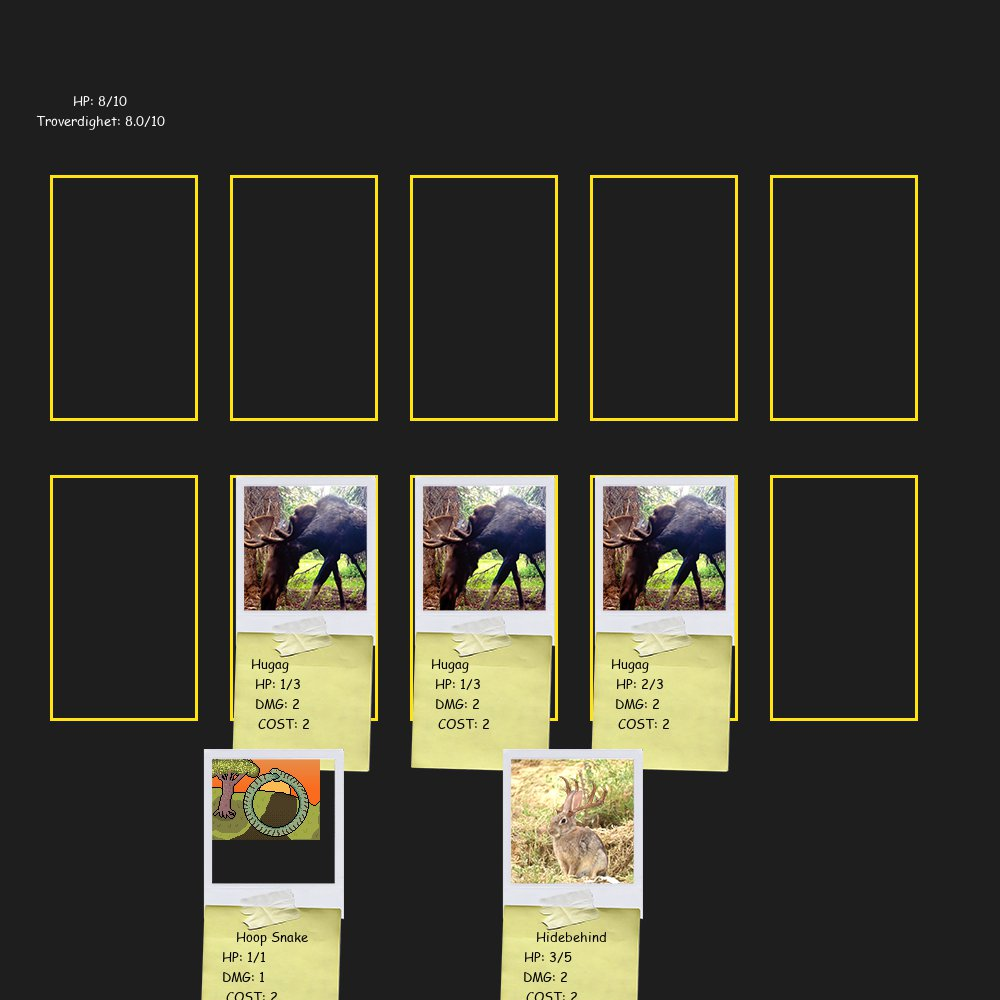
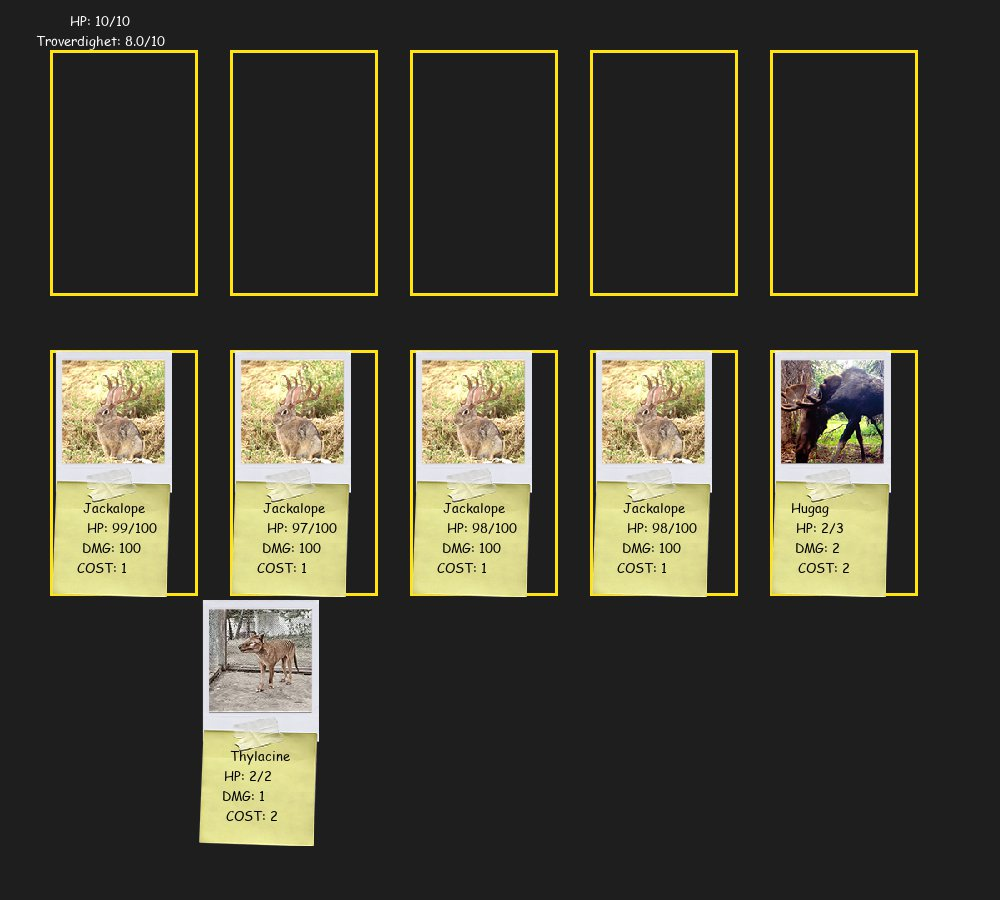
oppdaterte flere bilder, la til skalering av kort, og startet på implementeringen av shops og steder der du kan få nye kort eller modifisere gamle kort

diff --git a/main.py b/main.py
@@ -6,9 +6,10 @@ import copy
 pygame.init()
 #Basic Pygame
 pygame.display.set_caption("Cryptoscam")
-WIDTH, HEIGHT = 1000, 800
+WIDTH, HEIGHT = 1000, 900
 screen = pygame.display.set_mode((WIDTH, HEIGHT), pygame.SCALED | pygame.RESIZABLE)
 clock = pygame.time.Clock()
+fakescreen = screen.copy()
 
 BG_COLOR = (30, 30, 30)
 BLACK = (0,0,0)
@@ -25,6 +26,7 @@ currentstage = None
 loops = 0
 attackphaseactive = False
 HANDHEIGHT = 300
+standardcardscale = 1.2
 
 gamephase = 0
 changingphase = False
@@ -46,6 +48,7 @@ hugag = pygame.image.load("Spillet\Media\Sprites\polaroids\hugag.png")
 kanin = pygame.image.load("Spillet\Media\Sprites\polaroids\Kanin.png")
 ulv = pygame.image.load(r"Spillet\Media\Sprites\polaroids\Ulv.png")
 hoopsnake = pygame.image.load(r"Spillet\Media\Sprites\polaroids\hoopsnake.png")
+thylacine = pygame.image.load(r"Spillet\Media\Sprites\polaroids\thylacine.png")
 
 
 #X Sprites
@@ -128,6 +131,12 @@ class mapmark:
                     pygame.draw.line(surface, (128, 8 ,8), self.visualposition, connection.visualposition, 10)
 
         surface.blit(self.sprite, (self.visualposition.x - self.sprite.get_width() / 2, self.visualposition.y - self.sprite.get_height() / 2))
+    
+    def load(self):
+        if isinstance(self.stage, stage):
+            changephase(0)
+            currentstage = self.stage
+            spawnwave(currentstage)
         
 
 mapmarkers = []
@@ -159,6 +168,7 @@ class card:
         self.detached = False
         self.animating = False
         self.orderinlane = None
+        self.cardscale = standardcardscale
 
     def draw(self, surface):
         if self.hover == True:
@@ -167,9 +177,9 @@ class card:
             self.visualy = pygame.math.lerp(self.visualy, self.y, game_speed/12 * self.lerpspeed)
         self.visualx = pygame.math.lerp(self.visualx, self.x, game_speed/12 * self.lerpspeed)
         if self.played:
-            surface.blit(self.image, (self.visualx+12, self.visualy+10))
+            surface.blit(pygame.transform.scale(self.image, (125 / self.cardscale, 125 / self.cardscale)), (self.visualx+(12 / self.cardscale), self.visualy+(10 / self.cardscale)))
             if self.rarity == 0:
-                surface.blit(basiccard, (self.visualx, self.visualy))
+                surface.blit(pygame.transform.scale(basiccard, (144 / self.cardscale, 296 / self.cardscale) ), (self.visualx, self.visualy))
             
             self.addtext(surface, 4)
 
@@ -181,22 +191,22 @@ class card:
             if line == 0:
                 text_surface = font.render(str(self.name), True, BLACK)
                 text_rect = text_surface.get_rect()
-                text_rect.center = (self.visualx + text_rect.w, self.visualy+186+(line*20))
+                text_rect.center = (self.visualx + text_rect.w, self.visualy+(186 / self.cardscale)+(line*20))
                 surface.blit(text_surface, text_rect)
             if line == 1:
                 text_surface = font.render("HP: " + str(int(self.hp)) + "/" + str(int(self.maxhp)), True, BLACK)
                 text_rect = text_surface.get_rect()
-                text_rect.center = (self.visualx + text_rect.w, self.visualy+186+(line*20))
+                text_rect.center = (self.visualx + text_rect.w, self.visualy+(186 / self.cardscale)+(line*20))
                 surface.blit(text_surface, text_rect)
             if line == 2:
                 text_surface = font.render("DMG: " + str(int(self.dmg)), True, BLACK)
                 text_rect = text_surface.get_rect()
-                text_rect.center = (self.visualx + text_rect.w, self.visualy+186+(line*20))
+                text_rect.center = (self.visualx + text_rect.w, self.visualy+(186 / self.cardscale)+(line*20))
                 surface.blit(text_surface, text_rect)
             if line == 3:
                 text_surface = font.render("COST: " + str(int(self.cost)), True, BLACK)
                 text_rect = text_surface.get_rect()
-                text_rect.center = (self.visualx + text_rect.w, self.visualy+186+(line*20))
+                text_rect.center = (self.visualx + text_rect.w, self.visualy+(186 / self.cardscale)+(line*20))
                 surface.blit(text_surface, text_rect)
     
     def finishattackanimation(self):
@@ -264,9 +274,9 @@ class card:
                 damageplayer(self.dmg)
 
 playercarddictionary = [
-    card([0, True, "Player"], [], pygame.math.Vector3(2,1,1), jackalope, "Jackalope"),
+    card([0, True, "Player"], [], pygame.math.Vector3(100,100,1), jackalope, "Jackalope"),
     card([0, True, "Player"], [], pygame.math.Vector3(3,2,2), hugag, "Hugag"),
-    card([0, True, "Player"], ["Extinct+2"], pygame.math.Vector3(2,1,2), jackalope, "Thylacine"),
+    card([0, True, "Player"], ["Extinct+2"], pygame.math.Vector3(2,1,2), thylacine, "Thylacine"),
     card([0, True, "Player"], ["Rolling"], pygame.math.Vector3(1,1,2), hoopsnake, "Hoop Snake"),
     card([0, True, "Player"], ["Hide"], pygame.math.Vector3(5,2,2), jackalope, "Hidebehind"),
     card([0, True, "Player"], ["Mover Over"], pygame.math.Vector3(1,1,2), jackalope, "Ball-Tailed Cat"),
@@ -393,7 +403,7 @@ class stage:
 stages = [ #Her er hva du skal skrive inn for stagen i rekkefølge: Navnet på banen, Hvor mange "Waves" banen består av, Om det er noen tvunget fiender som skal spawne (fungerer ikke akkurat nå), farlighetsgrad og til slutt hvilke pools wavesene bruker og hvor mange tokens hver wave får
     #Vanskelighetsgrad Følger denne formen: 1 - Enkel / Starterbanene, 2 - Baner som kan være en liten trussel tidlig i spillet, 3 - Tidlige bosser og Middels vanskelige baner, 4 - Litt senere bosser og andre vanskelige baner, 5 - Farligste av alle.
     stage("First Level", 3, None, 1, [ #findpool() is pool used for fetching enemies for stage, next number is how many tokens can be used to spawn enemies
-        findpool("UlvKanin"), 7,
+        findpool("UlvKanin"), 2,
         findpool("Kanin"), 3,
         findpool("UlvKanin"), 4,
     ]),
@@ -431,11 +441,44 @@ stages = [ #Her er hva du skal skrive inn for stagen i rekkefølge: Navnet på b
     ]),
 ]
 
-for i in range(6):
-    if i == 1:
-        mapmarkers.append(mapmark(pygame.math.Vector2(0, i * 150), [], stages[i], False))
-    else:
-        mapmarkers.append(mapmark(pygame.math.Vector2(random.randint(-150, 150), random.randint(-60, 60) + i * 150), [], stages[i], False))
+class shop:
+    def __init__(self, type, level = 0, size = 3):
+        self.type = type
+        self.level = level
+        self.size = size
+
+
+        if self.type == "GetCards":
+            self.cards = []
+            shuffleddictionary = copy.copy(playercarddictionary)
+            random.shuffle(shuffleddictionary)
+            print(shuffleddictionary)
+            for i in range(size):
+                for card in shuffleddictionary:
+                    if card.cost >= self.level:
+                        if card in self.cards:
+                            pass
+                        else:
+                            self.cards.append(copy.copy(card))
+    
+
+def createmapmarkers(markeramount):
+    for i in range(markeramount):
+        if i == 1:
+            mapmarkers.append(mapmark(pygame.math.Vector2(0, i * 100), [], None, False))
+        else:
+            mapmarkers.append(mapmark(pygame.math.Vector2(random.randint(-250, 250), random.randint(-35, 35) + i * 100), [], None, False))
+    loops = 0
+    for marker in mapmarkers:
+        loops += 1
+        if loops % 2 == 0:
+            marker.stage = shop("GetCards") 
+            marker.sprite = pygame.image.load(r"Spillet\Media\markericons\getcards.png")
+        else:
+            marker.stage = copy.copy(stages[random.randint(0, len(stages)-1)])
+
+
+createmapmarkers(8)
 
 waves = []
 spawnedenemycards = []
@@ -456,8 +499,12 @@ def spawnwave(stage):
     global spawnedenemycards
 
     points = stage.pools[((currentwave+1)*2)-1]
-    
+    loops = 0
     while points > 0:
+        loops += 1
+        if loops >= 1024:
+            print("Infinite Recursion in Enemy Spawning, breaking while loop")
+            break
         if None in spawnedenemycards:
             chosenenemy = random.choice(stage.pools[((currentwave+1)*2)-2].enemies)
             while chosenenemy.cost > points:
@@ -472,25 +519,30 @@ def spawnwave(stage):
         else:
             chosenlane = random.randint(0,4)
             points += spawnedenemycards[chosenlane].cost
-
             mostexpensiveenemy = None
             excludedenemies = []
             for enemy in stage.pools[((currentwave+1)*2)-2].enemies:
+                if enemy.name in excludedenemies:
+                    print("Enemy %s is in excluded enemies") % enemy
                 if mostexpensiveenemy == None:
                     mostexpensiveenemy = enemy
                 elif enemy.cost > mostexpensiveenemy.cost:
                     if enemy.cost <= points:
                         mostexpensiveenemy = enemy
                         print("Grabbing most expensive enemy")
+                        print(mostexpensiveenemy.name)
                     else:
-                        excludedenemies.append(enemy)
+                        excludedenemies.append(enemy.name)
             if mostexpensiveenemy == None:
                 print("Error: Failed to find most expensive enemy")
-
-            spawnedenemycards[chosenlane] = copy.copy(mostexpensiveenemy)
-            spawnedenemycards[chosenlane].visualx = enemylanes[chosenlane].position.x
-            spawnedenemycards[chosenlane].visualy = enemylanes[chosenlane].position.y - 200
-            points -= chosenenemy.cost
+            else:
+                print("points before spawned = %s" % points)
+                
+                spawnedenemycards[chosenlane] = copy.copy(mostexpensiveenemy)
+                spawnedenemycards[chosenlane].visualx = enemylanes[chosenlane].position.x
+                spawnedenemycards[chosenlane].visualy = enemylanes[chosenlane].position.y - 200
+                points -= mostexpensiveenemy.cost
+                print("points after spawned = %s" % points)
 
             
     
@@ -508,6 +560,21 @@ def changephase(nextphase):
     global changingphase
     global gamephase
     changingphase = True
+    
+    if nextphase == 0:
+        global troverdighet
+        troverdighet = 10
+        global currentwave
+        currentwave = 0
+        gamephase = 0
+        random.shuffle(deck)
+        for i in range(4):
+            drawcard()
+        changingphase = False
+    if nextphase == 2:
+        gamephase = 2
+        changingphase = False
+    
     if nextphase == 1:
         
         gamephase = 1
@@ -521,16 +588,6 @@ def changephase(nextphase):
             if item != None:
                 item.lerpspeed = 0.5
                 item.x = -200 - random.randint(-50,50)
-        changingphase = False
-    if nextphase == 0:
-        global troverdighet
-        troverdighet = 10
-        global currentwave
-        currentwave = 0
-        gamephase = 0
-        random.shuffle(deck)
-        for i in range(4):
-            drawcard()
         changingphase = False
         
 
@@ -612,7 +669,7 @@ def finishattackphase():
             if marker.stage == currentstage:
                 marker.finished = True
         print("You win!")
-        pygame.image.save(screen, "Backgroundphase1.jpeg")
+        pygame.image.save(fakescreen, "Backgroundphase1.jpeg")
         heldcard == None
         changephase(1)
 
@@ -657,7 +714,7 @@ while True:
                 if event.key == pygame.K_1:
                     drawcard() #Husk å fjerne denne før du leverer spillet
                     print("Drawing Card")
-                if event.key == pygame.K_2:
+                if event.key == pygame.K_SPACE:
                     if attackphaseactive == False:
                         attackphase()
                         print("Attacking")
@@ -688,12 +745,17 @@ while True:
                             if pygame.mouse.get_pos()[0] < marker.visualposition.x + marker.sprite.get_width() / 2 and pygame.mouse.get_pos()[1] < marker.visualposition.y + marker.sprite.get_height() / 2:
                                 print("Hit Marker %s" % mapmarkers.index(marker))
                                 if marker.stage != None:
+                                    print("Marker has stage")
+                                    if mapmarkers.index(marker) == 0:
+                                        if marker.finished == False:
+                                            marker.load()
                                     for connectionmarker in mapmarkers:
                                         if marker in connectionmarker.connections:
+                                            print("Found Connection")
                                             if connectionmarker.finished == True and marker.finished == False:
-                                                changephase(0)
-                                                currentstage = marker.stage
-                                                spawnwave(currentstage)
+                                                marker.load()
+                                                print("Loading Marker")
+                                                
                                 break
                                                 
 
@@ -719,25 +781,25 @@ while True:
 
 
 
-        screen.fill(BG_COLOR)
+        fakescreen.fill(BG_COLOR)
 
         for lane in lanes:
-            lane.draw(screen)
+            lane.draw(fakescreen)
         for lane in enemylanes:
-            lane.draw(screen)
+            lane.draw(fakescreen)
         for playedcard in playedcards:
             if playedcard != None:
                 if changingphase == False and playedcard.detached == False:
                     playedcard.x = lanes[(playedcards.index(playedcard))].position.x + 2
                     playedcard.y = lanes[(playedcards.index(playedcard))].position.y + 2
-                playedcard.draw(screen)
+                playedcard.draw(fakescreen)
     
         for enemycard in spawnedenemycards:
             if enemycard != None:
                 if enemycard.detached == False:
                     enemycard.x = enemylanes[(spawnedenemycards.index(enemycard))].position.x+2
                     enemycard.y = enemylanes[(spawnedenemycards.index(enemycard))].position.y+2
-                enemycard.draw(screen)
+                enemycard.draw(fakescreen)
     
         for card in hand:
             if pygame.mouse.get_pos()[0] > card.x and pygame.mouse.get_pos()[1] > card.y:
@@ -745,27 +807,27 @@ while True:
                     if heldcard == None:
                         card.hover = True
             if not card == heldcard:
-                card.draw(screen)
+                card.draw(fakescreen)
         if not card == None:
             for card in hand:
                 if card == heldcard:
-                    card.draw(screen)
+                    card.draw(fakescreen)
         text_surface = font.render("HP: " + str(int(playerhp)) + "/10", True, WHITE)
         text_rect = text_surface.get_rect()
         text_rect.center = (100,20)
-        screen.blit(text_surface, text_rect)
+        fakescreen.blit(text_surface, text_rect)
         text_surface = font.render("Troverdighet: " + str(troverdighet) + "/10", True, WHITE)
         text_rect = text_surface.get_rect()
         text_rect.center = (100,40)
-        screen.blit(text_surface, text_rect)
+        fakescreen.blit(text_surface, text_rect)
 
 
     if gamephase == 1:
         backgroundimage = pygame.image.load("Backgroundphase1.jpeg")
-        screen.blit(backgroundimage, (0,0))
-        areamap.draw(screen)
+        fakescreen.blit(backgroundimage, (0,0))
+        areamap.draw(fakescreen)
         for marker in mapmarkers:
-            marker.draw(screen)
+            marker.draw(fakescreen)
 
 
     if gamephase == 2:
@@ -773,4 +835,6 @@ while True:
             print("at card shop")
 
     
+    screen.blit(pygame.transform.scale(fakescreen, screen.get_rect().size), (0, 0))
+
     pygame.display.flip()
